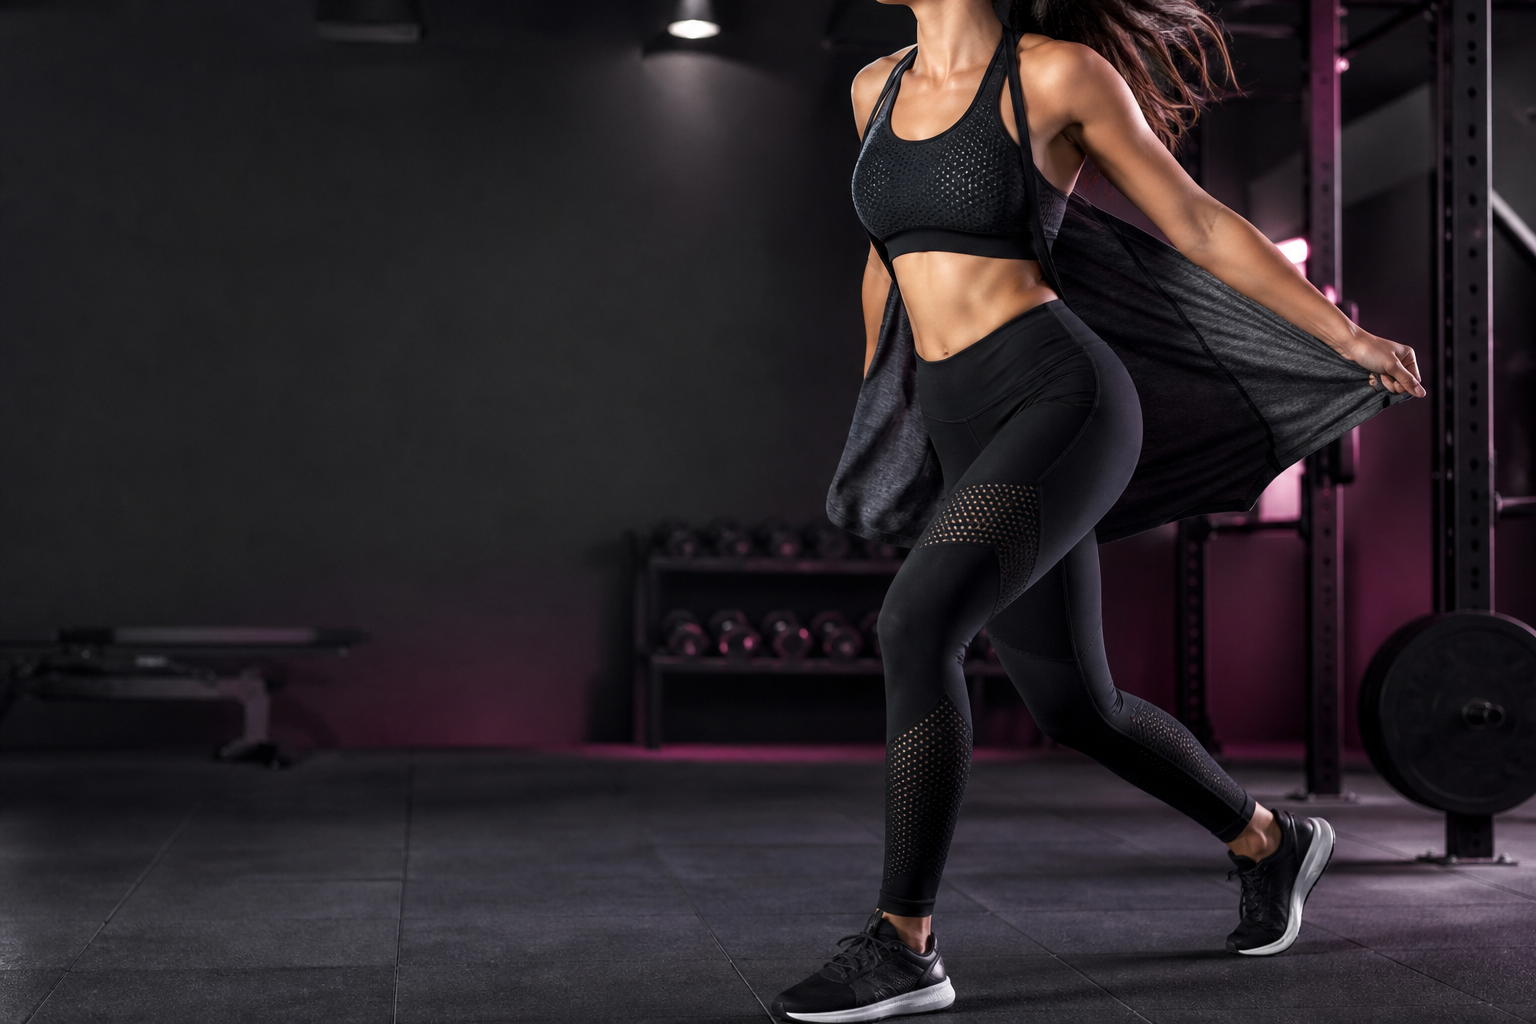
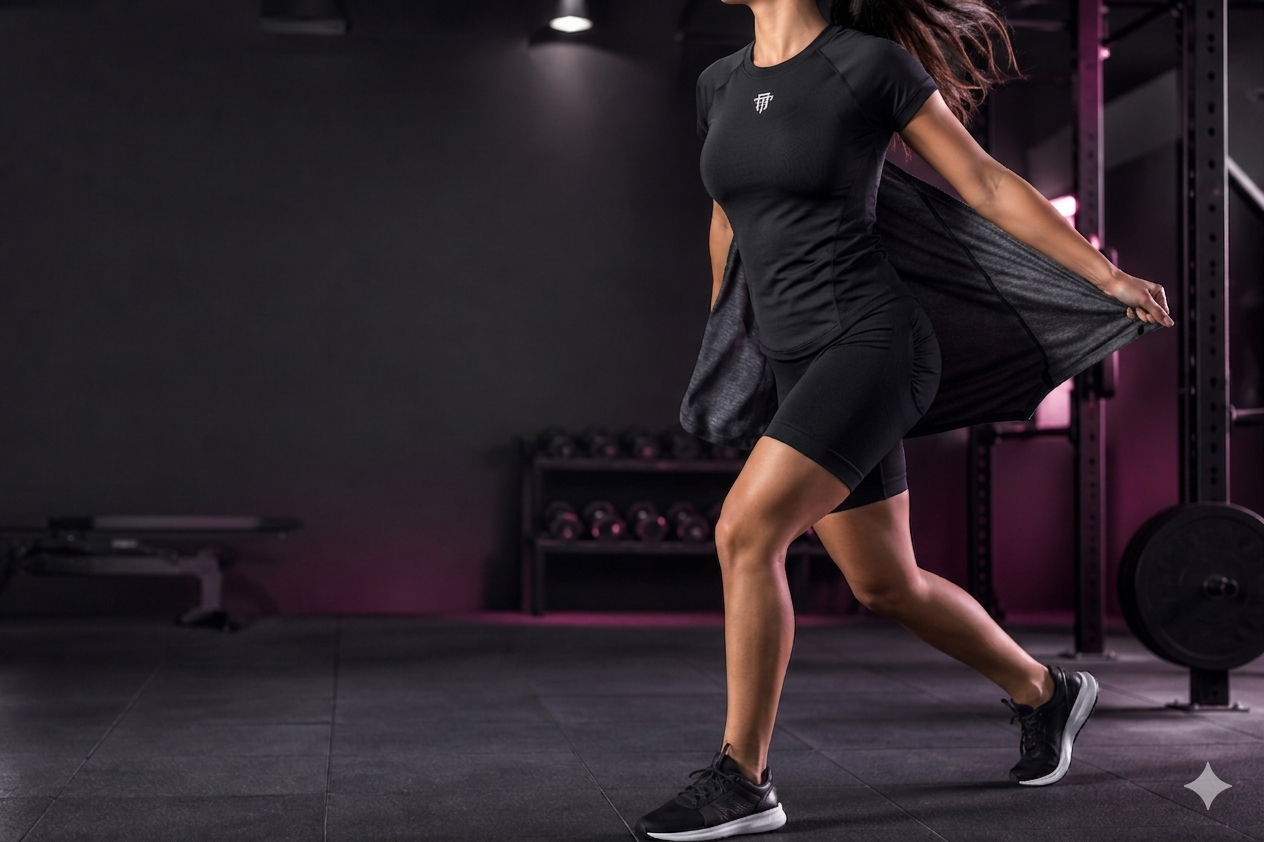
fix: size chart image display - contain instead of cover, white bg, proper padding

diff --git a/src/App.jsx b/src/App.jsx
@@ -638,7 +638,11 @@ function ProductOptionsModal({ content, product, onClose, onAddToCart }) {
           <X size={20} />
         </button>
         <div className="modal-gallery">
-          <img src={getCurrentImage()} alt={product.name} />
+          <img
+            src={getCurrentImage()}
+            alt={product.name}
+            className={imageIndex >= images.length ? "size-chart-img" : ""}
+          />
           {totalImages > 1 && (
             <div className="gallery-controls">
               <button type="button" onClick={prevImage} aria-label="Anterior">‹</button>

diff --git a/src/styles.css b/src/styles.css
@@ -1303,6 +1303,10 @@ p {
 .modal-gallery {
   position: relative;
   overflow: hidden;
+  display: flex;
+  align-items: center;
+  justify-content: center;
+  background: var(--panel-soft);
 }
 
 .modal-gallery img {
@@ -1310,6 +1314,14 @@ p {
   height: 100%;
   min-height: 520px;
   object-fit: cover;
+}
+
+.modal-gallery img.size-chart-img {
+  object-fit: contain;
+  padding: 16px;
+  background: #fff;
+  min-height: auto;
+  max-height: 520px;
 }
 
 .gallery-controls {
